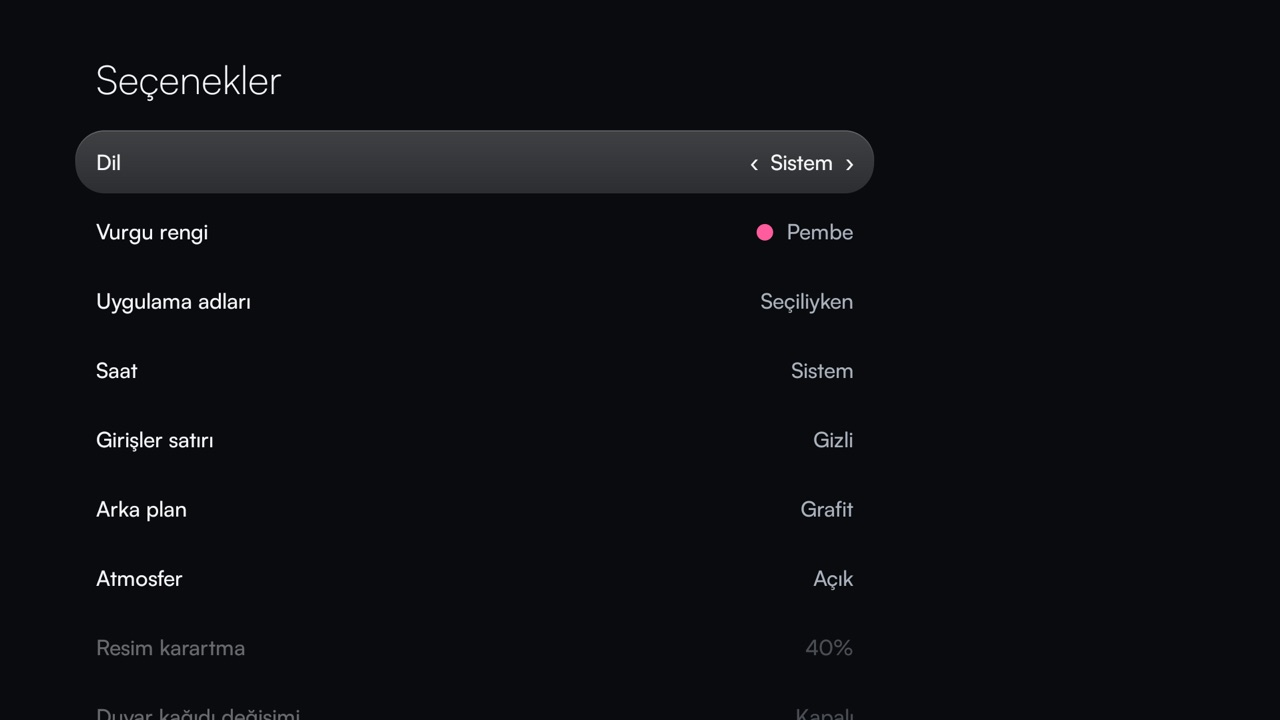
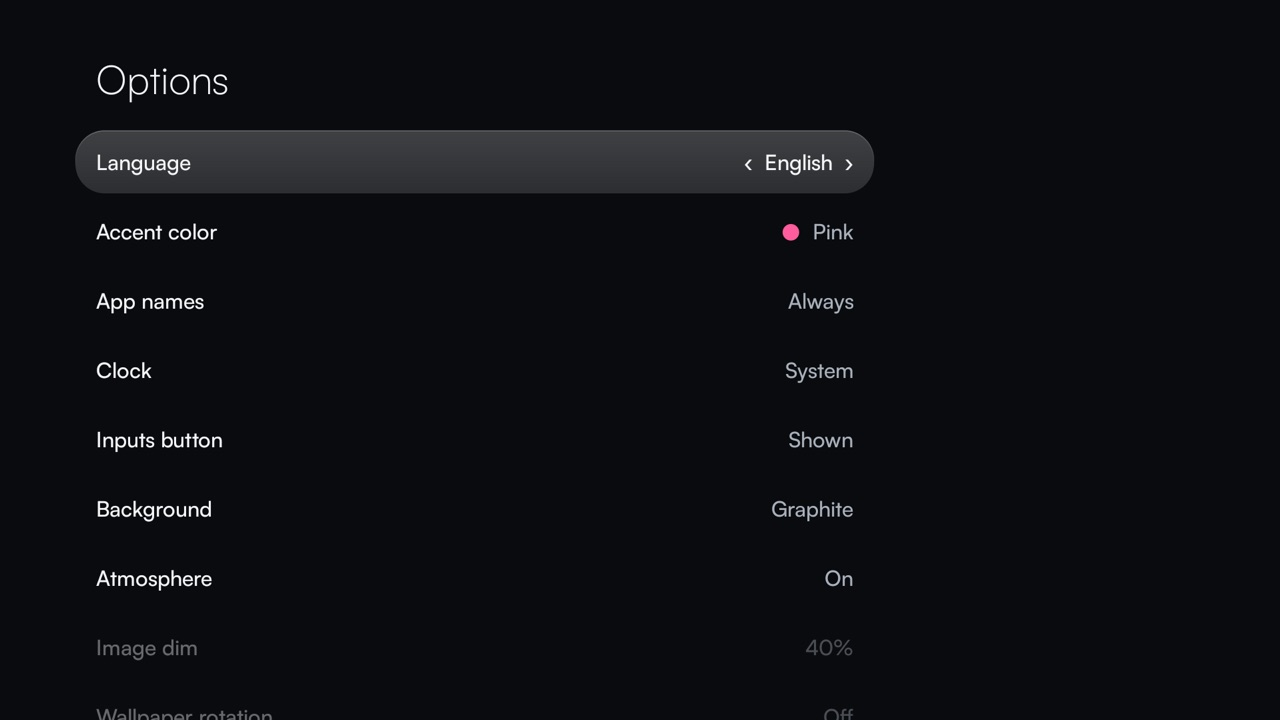
Refresh the screenshots: English, with the inputs panel and Options

diff --git a/README.md b/README.md
@@ -15,7 +15,7 @@ Sony, Xiaomi, onn and the rest. The home screen runs on Android 9 and newer.
   <img src="docs/screenshots/home.jpg" width="49%" alt="The home screen: movies row and app dock">
   <img src="docs/screenshots/movies.jpg" width="49%" alt="The focused movie takes half the row">
   <img src="docs/screenshots/summary.jpg" width="49%" alt="OK on a movie opens its summary">
-  <img src="docs/screenshots/home-en.jpg" width="49%" alt="The same screen in English">
+  <img src="docs/screenshots/inputs.jpg" width="49%" alt="The inputs button opens HDMI sources to its left">
 </p>
 
 ## Use it
